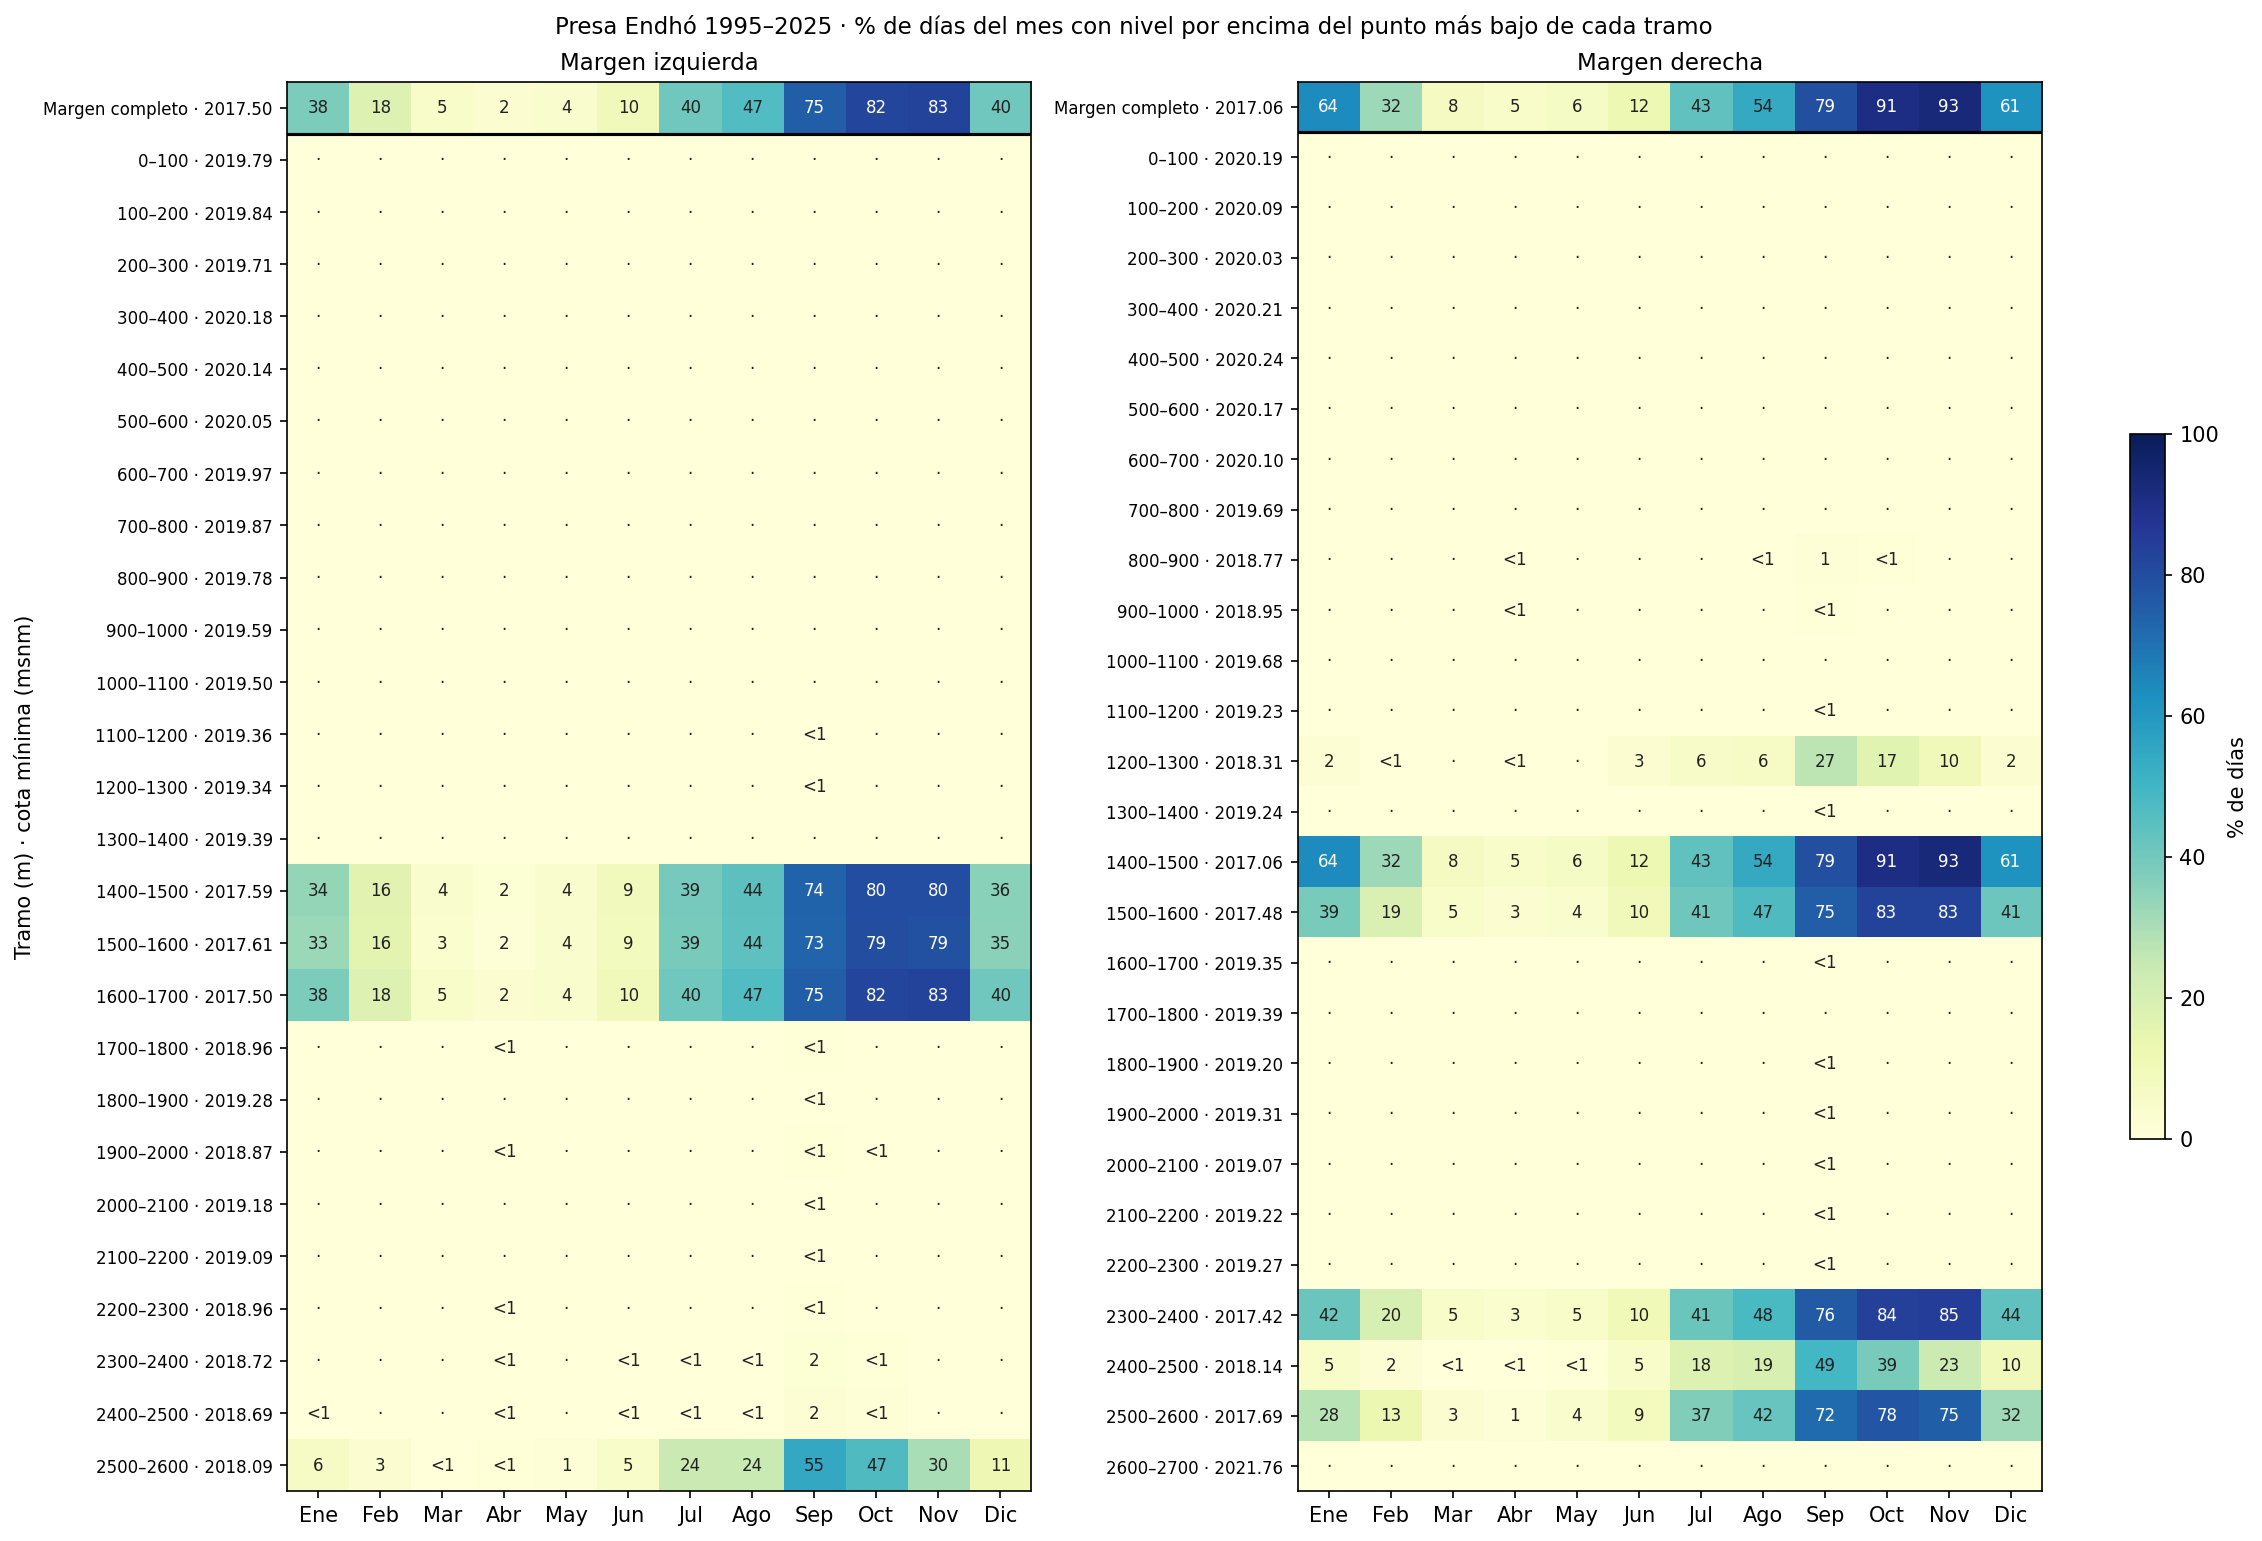
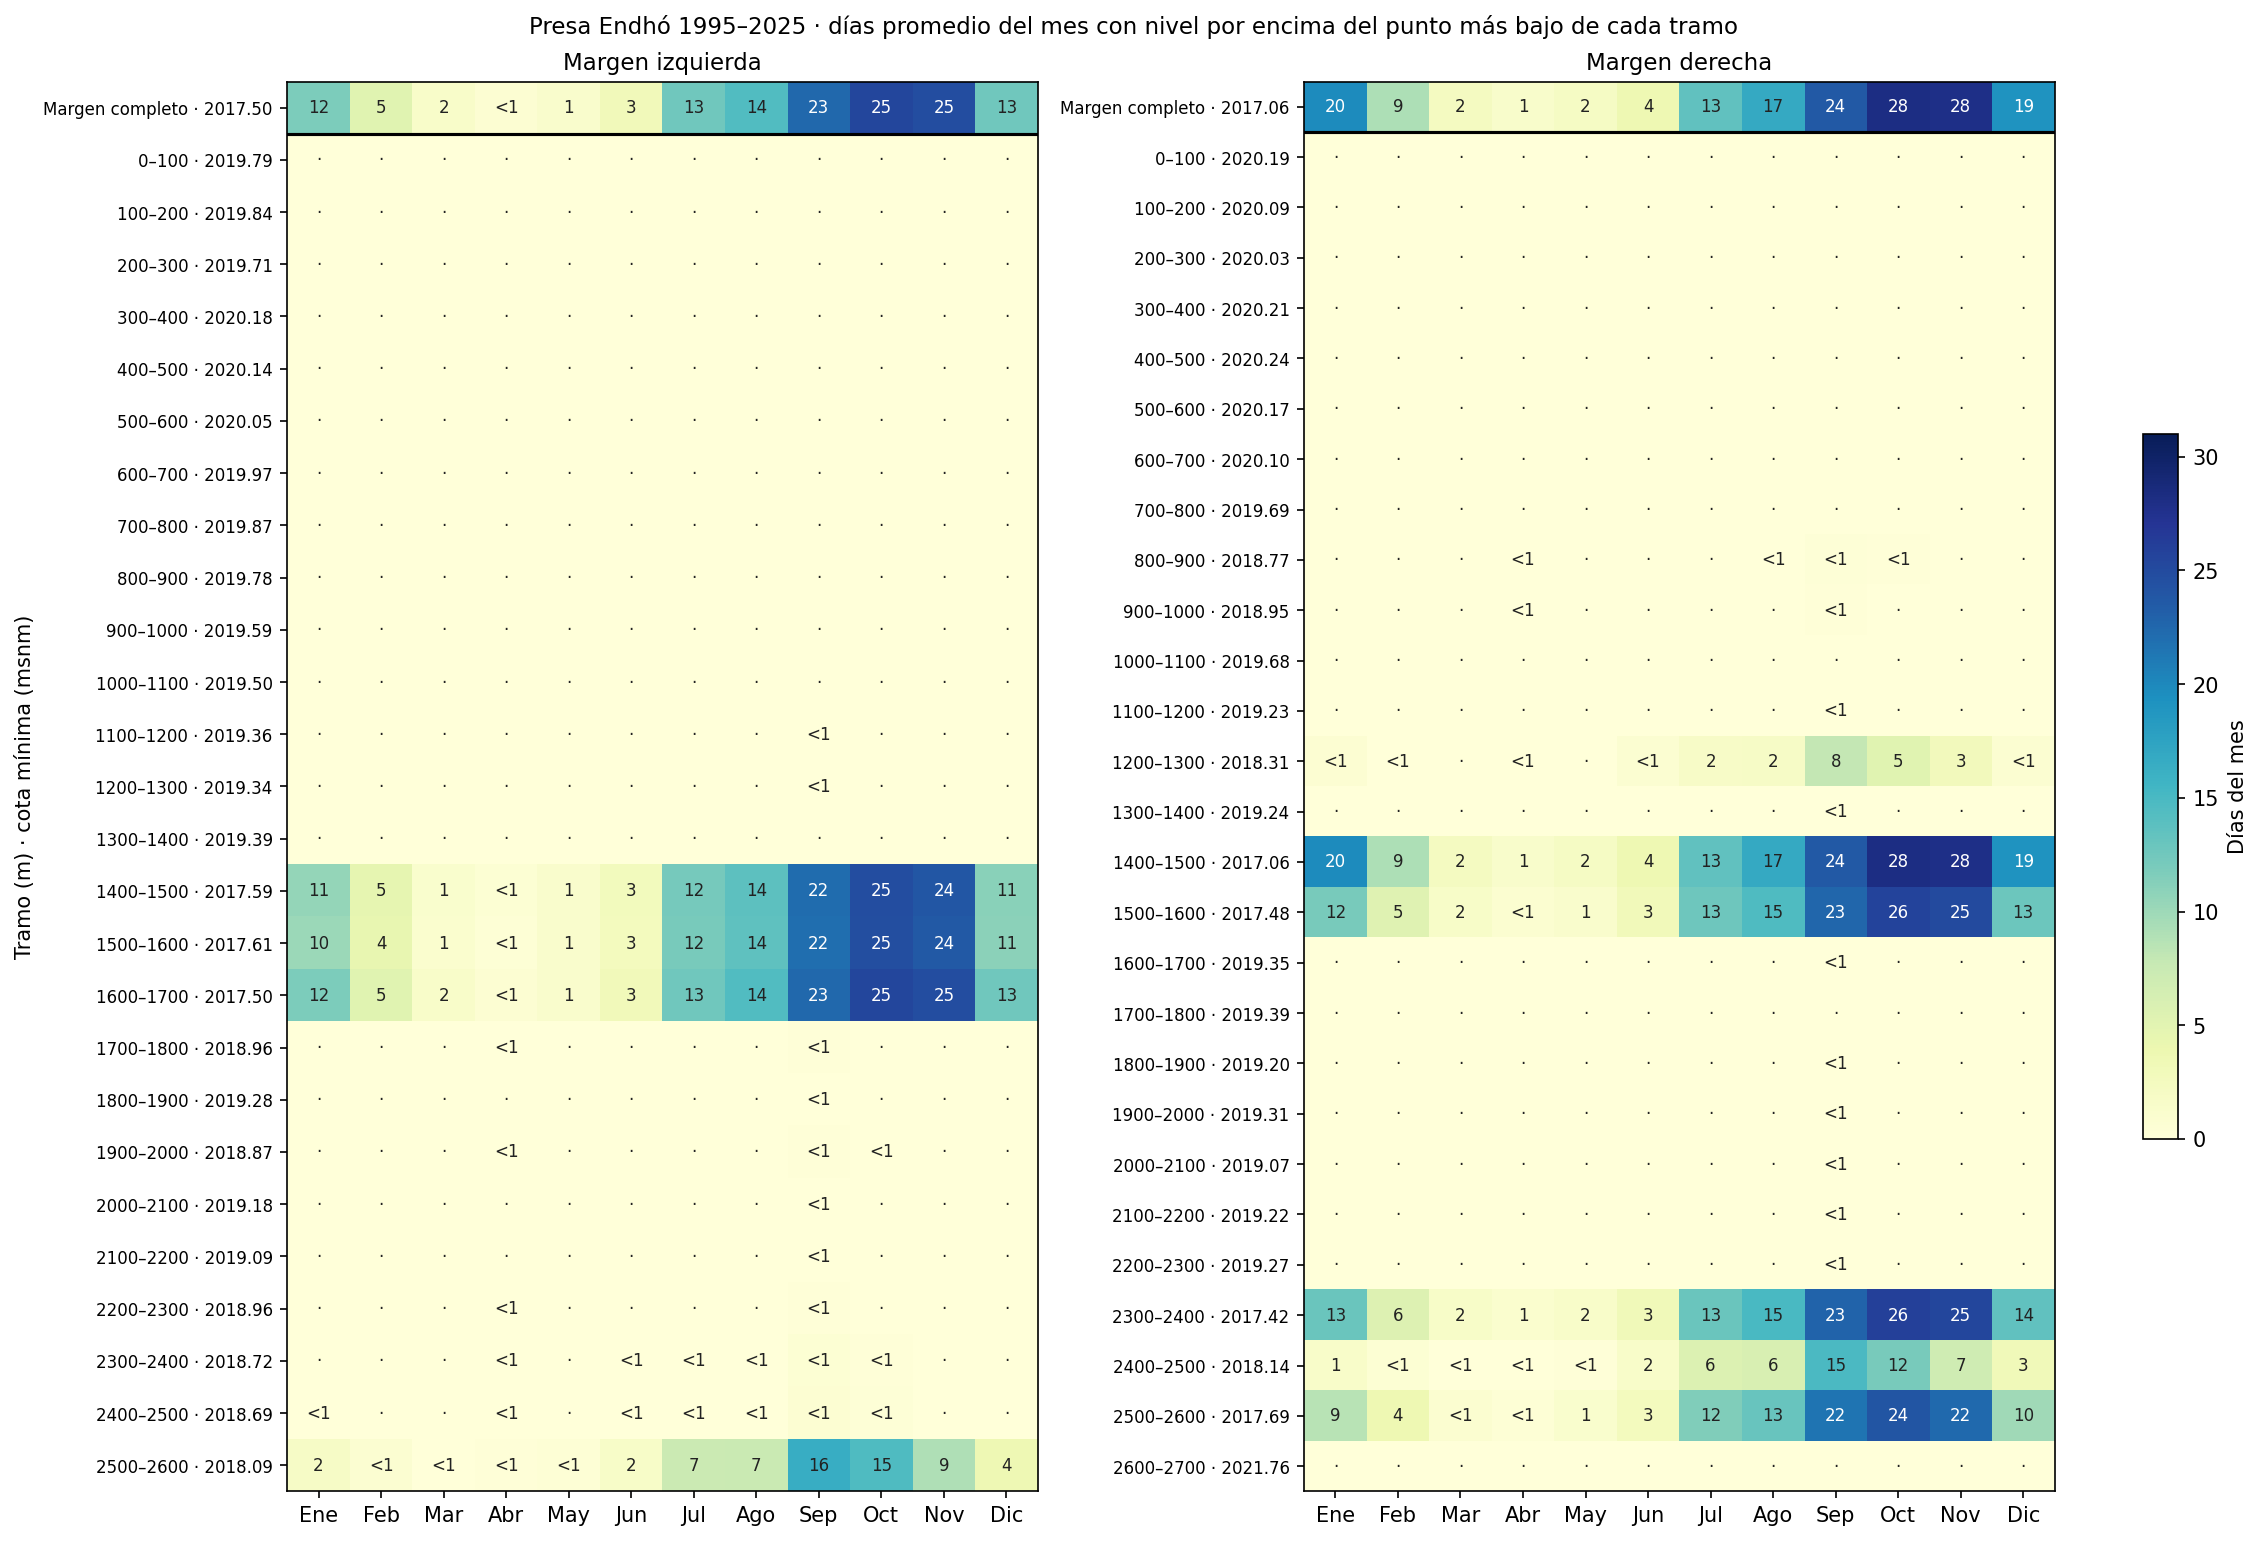
Temporada por margen en días por mes

diff --git a/temporada_por_margen.py b/temporada_por_margen.py
@@ -1,12 +1,3 @@
-"""
-Porcentaje de días de cada mes en que el nivel de la presa Endhó supera el bordo, por margen y por tramo.
-
-Para cada margen se divide el perfil en tramos y se toma la cota mínima de cada uno:
-es el punto por donde el agua entraría primero en ese tramo.
-
-Uso:
-  python temporada_por_margen.py niveles_endho.xlsx resultados [largo_tramo_m]
-"""
 import sys, glob, os
 import numpy as np, pandas as pd
 import matplotlib
@@ -14,6 +5,7 @@ matplotlib.use("Agg")
 import matplotlib.pyplot as plt
 
 MESES = ["Ene", "Feb", "Mar", "Abr", "May", "Jun", "Jul", "Ago", "Sep", "Oct", "Nov", "Dic"]
+DIAS_MES = [31, 28.25, 31, 30, 31, 30, 31, 31, 30, 31, 30, 31]
 
 
 def main(niveles, carpeta, largo="100"):
@@ -25,8 +17,8 @@ def main(niveles, carpeta, largo="100"):
     df = df[(df.nivel > 1990) & (df.nivel < 2030)]
     niv_m = [np.sort(df[df.fecha.dt.month == m].nivel.values) for m in range(1, 13)]
 
-    def pct_meses(z):
-        return [100 * (len(s) - np.searchsorted(s, z, side="right")) / len(s) for s in niv_m]
+    def dias_meses(z):
+        return [d * (len(s) - np.searchsorted(s, z, side="right")) / len(s) for s, d in zip(niv_m, DIAS_MES)]
 
     filas = []
     for ruta in sorted(glob.glob(f"{carpeta}/perfil_margen_*.csv")):
@@ -34,14 +26,14 @@ def main(niveles, carpeta, largo="100"):
         p = pd.read_csv(ruta).dropna(subset=["z_bordo"])
         i = p.z_bordo.idxmin()
         filas.append({"margen": lado, "tramo": "Margen completo", "dist_min_m": p.dist_m[i], "z_min": p.z_bordo[i],
-                      **dict(zip(MESES, pct_meses(p.z_bordo[i])))})
+                      **dict(zip(MESES, dias_meses(p.z_bordo[i])))})
         p["tramo"] = (p.dist_m // largo).astype(int)
         for t, g in p.groupby("tramo"):
             i = g.z_bordo.idxmin()
             filas.append({"margen": lado, "tramo": f"{t * largo:.0f}–{(t + 1) * largo:.0f}", "dist_min_m": g.dist_m[i],
-                          "z_min": g.z_bordo[i], **dict(zip(MESES, pct_meses(g.z_bordo[i])))})
+                          "z_min": g.z_bordo[i], **dict(zip(MESES, dias_meses(g.z_bordo[i])))})
     tabla = pd.DataFrame(filas)
-    tabla.round(2).to_csv(f"{carpeta}/temporada_por_margen.csv", index=False, encoding="utf-8-sig")
+    tabla.round({"z_min": 2, **{m: 1 for m in MESES}}).to_csv(f"{carpeta}/temporada_por_margen.csv", index=False, encoding="utf-8-sig")
 
     lados = sorted(dict.fromkeys(tabla.margen), reverse=True)
     n = max((tabla.margen == l).sum() for l in lados)
@@ -49,20 +41,20 @@ def main(niveles, carpeta, largo="100"):
     for ax, lado in zip(axs[0], lados):
         t = tabla[tabla.margen == lado]
         M = t[MESES].values
-        im = ax.imshow(M, cmap="YlGnBu", vmin=0, vmax=100, aspect="auto")
+        im = ax.imshow(M, cmap="YlGnBu", vmin=0, vmax=31, aspect="auto")
         for i in range(M.shape[0]):
             for j in range(M.shape[1]):
                 v = M[i, j]
                 ax.text(j, i, f"{v:.0f}" if v >= 1 else ("<1" if v > 0 else "·"), ha="center", va="center",
-                        fontsize=8, color="white" if v > 60 else "#222")
+                        fontsize=8, color="white" if v > 18 else "#222")
         ax.axhline(0.5, color="k", lw=1.5)
         ax.set_xticks(range(12), MESES)
         ax.set_yticks(range(len(t)), [f"{a} · {z:.2f}" for a, z in zip(t.tramo, t.z_min)], fontsize=8)
         ax.set_title(f"Margen {lado.lower()}", fontsize=11)
     axs[0][0].set_ylabel("Tramo (m) · cota mínima (msnm)")
     fig.suptitle(f"Presa Endhó {df.fecha.dt.year.min()}–{df.fecha.dt.year.max()} · "
-                 "% de días del mes con nivel por encima del punto más bajo de cada tramo", fontsize=11)
-    fig.colorbar(im, ax=axs[0].tolist(), label="% de días", shrink=0.5)
+                 "días promedio del mes con nivel por encima del punto más bajo de cada tramo", fontsize=11)
+    fig.colorbar(im, ax=axs[0].tolist(), label="Días del mes", shrink=0.5)
     fig.savefig(f"{carpeta}/temporada_por_margen.png", dpi=150, bbox_inches="tight")
 
 
